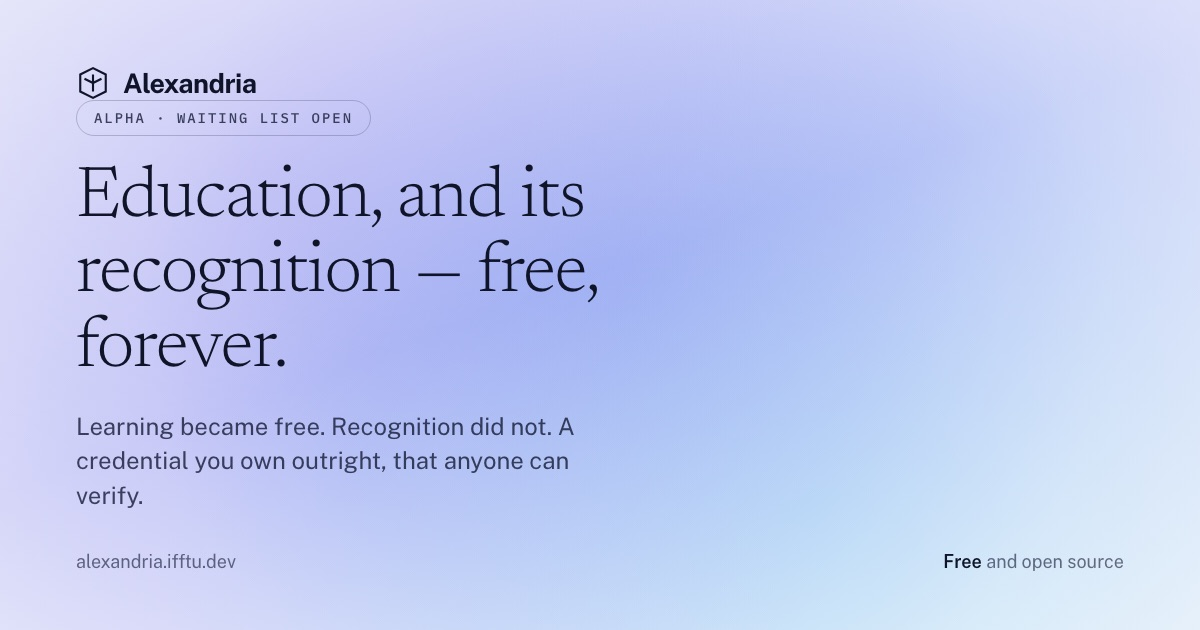
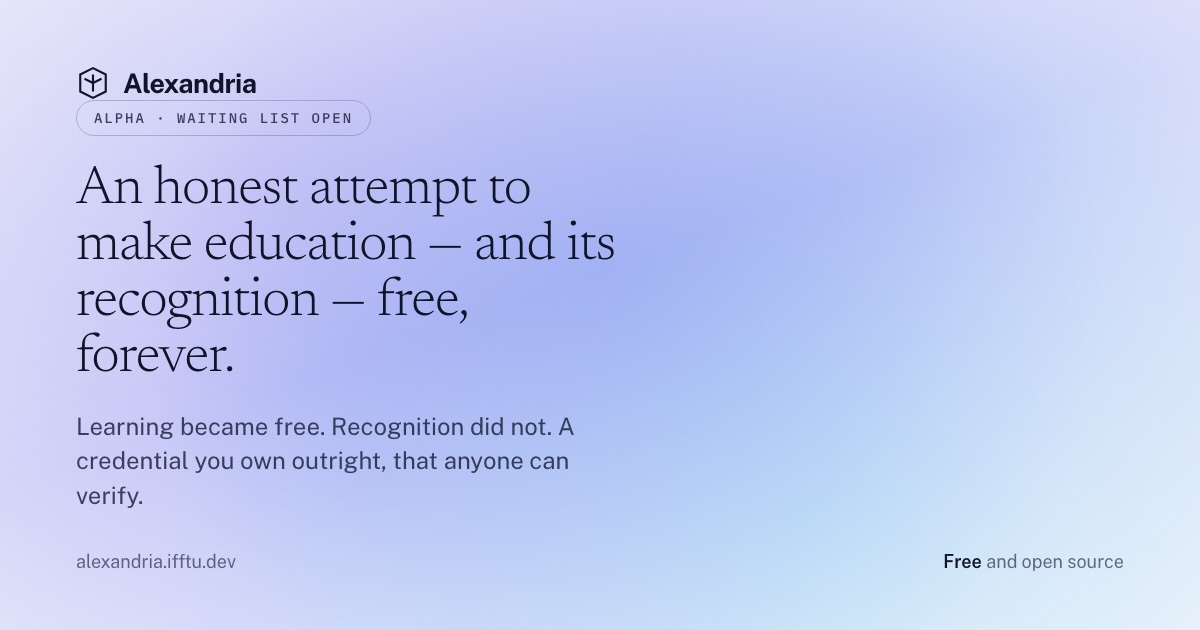
Copy: "attempt to make", and put the hero's sentence on the OG card (#42)
* copy: "attempt to make", and put the hero's own sentence on the OG card

The home page h1 read "An honest attempt at making education"; it now reads
"An honest attempt to make education". Only one instance existed across either
site — the blog post's "an honest attempt to make knowledge" is a different
sentence and already correct, and IFFTU has none.

The card was the more interesting half. Regenerating every OG image against the
current generator produced byte-identical output for all 26 files, so nothing
was stale in the sense of never having been rebuilt. What was stale was the
generator's own copy: the home card headline still read "Education, and its
recognition — free, forever.", which is what the hero said before it changed. So
every share preview of the front page carried a sentence the page no longer used.

Putting the real sentence on the card broke it — at a flat 72px, 74 characters
wrap to four lines and push the footer off the bottom of the 630px canvas. That
fixed size is why headlines had been trimmed away from the page's wording in the
first place, and why this one drifted.

So the size now scales with the title's length: 72px up to 50 characters, 62 to
64, 54 beyond. Length is a fair proxy for line count because the measure is
capped at 18ch, so a longer string wraps rather than widening. Only the home card
crosses a threshold; the other twelve are byte-identical, which the regeneration
confirms — two files changed out of twenty-six.
[…]

Changed region(s): [[0.0617, 0.2413, 0.5242, 0.6032]]

diff --git a/app.vue b/app.vue
@@ -2,16 +2,28 @@
 // Theme initialization happens in useTheme composable
 // which is called in the layout
 
-// Preload the above-the-fold face. The hero H1 is the LCP element and it is set
-// in the display serif, so that is the one font worth racing the render-blocking
-// CSS. The body and mono faces both have metric-matched local fallbacks, which
-// makes their swap invisible and their preload not worth the bandwidth it takes
-// from this one.
+// Preload the two faces the hero H1 is set in. It is the LCP element, so these
+// are the fonts worth racing the render-blocking CSS. The body and mono faces
+// have metric-matched local fallbacks, which makes their swap invisible and
+// their preload not worth the bandwidth it takes from these.
+//
+// The italic is here because the H1 ends in an italic phrase, and a fallback
+// cannot be relied on to hold its place. The metric-matched faces are built on
+// `local('Georgia')` and `local('Arial')`, which only exist on machines that
+// have them: macOS and Windows do, Linux and Android do not. On Android the
+// override silently does not apply, the fallback is whatever serif the system
+// ships, and the H1 re-wraps when the real italic lands — moving everything
+// below the hero. That is a 0.104 layout shift, measured on a Linux CI runner
+// standing in for exactly that case.
+//
+// 17 KB to remove a Core Web Vital failure for every visitor without Georgia.
 import displayUrl from '~/assets/fonts/newsreader-normal.woff2?url'
+import italicUrl from '~/assets/fonts/newsreader-italic.woff2?url'
 
 useHead({
   link: [
     { rel: 'preload', as: 'font', type: 'font/woff2', href: displayUrl, crossorigin: '' },
+    { rel: 'preload', as: 'font', type: 'font/woff2', href: italicUrl, crossorigin: '' },
   ],
 })
 </script>

diff --git a/assets/css/main.css b/assets/css/main.css
@@ -50,6 +50,26 @@
   descent-override: 26%;
   line-gap-override: 0%;
 }
+/* The italic needs its own fallback face. Without one, an italic run falls back
+   to Georgia carrying the ROMAN metrics above, and Georgia Italic is narrower
+   than Georgia — so the hero h1, which ends in an italic phrase, measured one
+   width before `newsreader-italic.woff2` landed and another after. That re-wrap
+   moved everything below the hero: Lighthouse attributed 0.099 of layout shift
+   to it, cause "Web font loaded", on an element 585px down the page.
+
+   80.3% is measured, not guessed: "free, forever." set at 100px is 464.7px in
+   Newsreader Italic and 578.4px in Georgia Italic, so the fallback has to be
+   scaled to 80.3% to occupy the same width. Reusing the roman's 96% here made
+   the shift worse (0.099 -> 0.102), which is how the mismatch was found. */
+@font-face {
+  font-family: 'Newsreader Fallback';
+  font-style: italic;
+  src: local('Georgia Italic'), local('Georgia-Italic'), local('Georgia');
+  size-adjust: 80.3%;
+  ascent-override: 96%;
+  descent-override: 26%;
+  line-gap-override: 0%;
+}
 
 @font-face {
   font-family: 'Newsreader Variable';

diff --git a/pages/index.vue b/pages/index.vue
@@ -246,7 +246,7 @@ const featuresOpen = ref(false)
              and an em dash starting a line reads as a typo. The second is not
              also bound backwards — "recognition — free, forever." as one
              unbreakable run is wider than a 390px viewport. -->
-        <h1>An honest attempt at making education&nbsp;— and its recognition —&nbsp;<em>free, forever.</em></h1>
+        <h1>An honest attempt to make education&nbsp;— and its recognition —&nbsp;<em>free, forever.</em></h1>
         <p class="hero-lede">
           Learning became free. Recognition did not. Alexandria is a free, open-source learning app
           for every device — and a credential you own outright, that anyone can verify, anywhere,

diff --git a/scripts/generate-og.py b/scripts/generate-og.py
@@ -60,8 +60,12 @@ WARM = ['251,191,36', '244,114,182', '79,70,229', '34,211,238', '16,185,129']
 # (route stem, blob palette, eyebrow, title, subtitle)
 # Titles are the pages' own h1s, trimmed only where 72px over 18ch would not fit.
 CARDS = [
+    # Mirrors the hero h1 and lede on the home page. The old headline here read
+    # "Education, and its recognition — free, forever.", which was the hero copy
+    # before it changed — so every share preview carried a sentence the page no
+    # longer says.
     ('home', INDIGO, 'Alpha · waiting list open',
-     'Education, and its recognition — free, forever.',
+     'An honest attempt to make education — and its recognition — free, forever.',
      'Learning became free. Recognition did not. A credential you own outright, that anyone can verify.'),
     ('why-recognition', INDIGO, 'The evidence',
      'Free learning already exists. It was never enough.',
@@ -103,6 +107,28 @@ CARDS = [
      'An honest attempt to make knowledge — and its recognition — truly free. For everyone. Forever.'),
 ]
 
+def title_size(title: str) -> int:
+    """Headline size, chosen from the title's length.
+
+    This used to be a flat 72px, which capped a usable headline at about three
+    lines: anything longer ran past the bottom of the 630px card and clipped the
+    footer. That forced card headlines to be trimmed away from the wording the
+    page actually uses, and the home card drifted out of step with its own hero
+    that way.
+
+    Length is a fair proxy for line count here because the measure is capped at
+    18ch, so a longer string wraps rather than widening. Thresholds are set from
+    the longest title in CARDS; a new one past 78 characters should be checked by
+    eye rather than assumed to fit.
+    """
+    n = len(title)
+    if n <= 50:
+        return 72
+    if n <= 64:
+        return 62
+    return 54
+
+
 # Per theme: page ink, secondary ink, scrim over the blobs, chip border.
 THEME = {
     'dark': {
@@ -141,6 +167,7 @@ def gradients(blobs, theme: str) -> str:
 def html(card, theme: str, fonts: dict) -> str:
     _stem, blobs, eyebrow, title, sub = card
     t = THEME[theme]
+    title_px = title_size(title)
     return f"""<!doctype html>
 <meta charset="utf-8">
 <style>
@@ -170,7 +197,7 @@ def html(card, theme: str, fonts: dict) -> str:
   }}
   h1 {{
     font-family: 'Newsreader', Georgia, serif;
-    font-size: 72px; font-weight: 300; line-height: 1.04; letter-spacing: -0.018em;
+    font-size: {title_px}px; font-weight: 300; line-height: 1.04; letter-spacing: -0.018em;
     color: {t['ink']}; max-width: 18ch;
   }}
   p {{ margin-top: 22px; font-size: 24px; line-height: 1.45; color: {t['ink2']}; max-width: 36ch; }}
